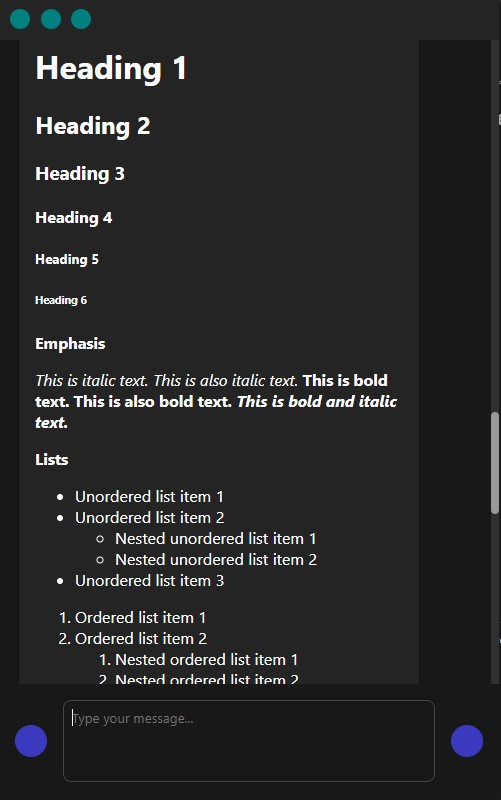
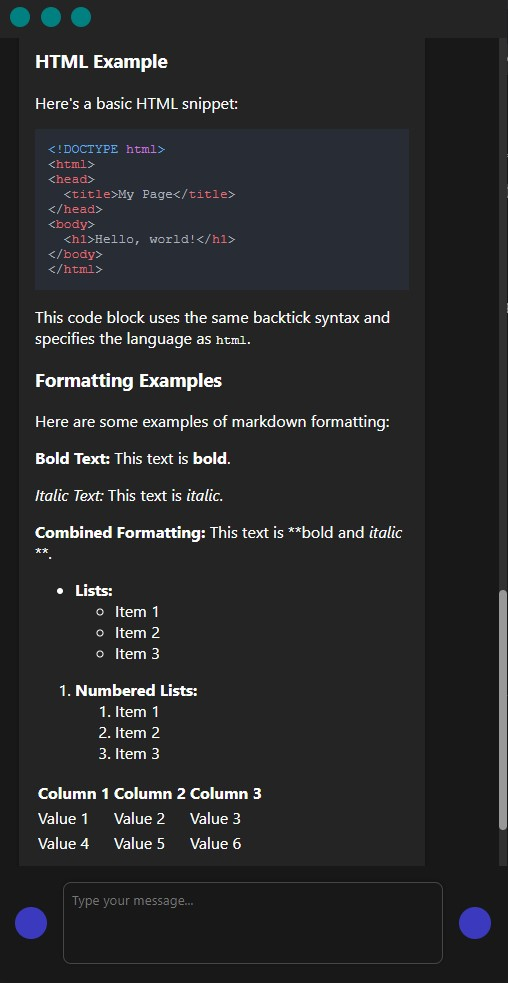
Syntax highlighting to code snippets/blocks

diff --git a/renderer.js b/renderer.js
@@ -1,18 +1,6 @@
 const hljs = require('highlight.js');
 const markdownit = require('markdown-it');
-const md = markdownit({
-    highlight: function (str, lang) {
-      if (lang && hljs.getLanguage(lang)) {
-        try {
-          return '<pre><code class="hljs">' +
-                 hljs.highlight(str, { language: lang, ignoreIllegals: true }).value +
-                 '</code></pre>';
-        } catch (__) {}
-      }
-  
-      return '<pre><code class="hljs">' + md.utils.escapeHtml(str) + '</code></pre>';
-    }
-  });
+const md = markdownit();
 const inputField = document.getElementById('entry-box');
 const API_KEY = "AIzaSyAjtbqg0T4aTbqDnJPl8kIlRH9ZYr6v32g";
 
@@ -27,7 +15,7 @@ const sendButton = document.getElementById('send-button');
 sendButton.addEventListener('click', onEnterPress);
 
 function renderText(text) {
-    const str = md.render(text);
+    str = md.render(text);
     return str;
 }
 
@@ -36,6 +24,7 @@ function renderMessages() {
     AI_UI.innerHTML = messages.map((message, i) => {
         return `<div class="message ${i % 2 === 0 ? 'user' : 'bot'}">${renderText(message.text)}</div><br>`;
     }).join(''); // Join the array into a single string
+    hljs.highlightAll();
 }
 
 renderMessages();

diff --git a/index.html b/index.html
@@ -5,6 +5,7 @@
     <meta name="viewport" content="width=device-width, initial-scale=1.0">
     <title>My App</title>
     <link rel="stylesheet" href="styles.css">
+    <link rel="stylesheet" href="https://cdnjs.cloudflare.com/ajax/libs/highlight.js/11.5.1/styles/atom-one-dark.min.css">
 </head>
 <body>
     <div class="header">
